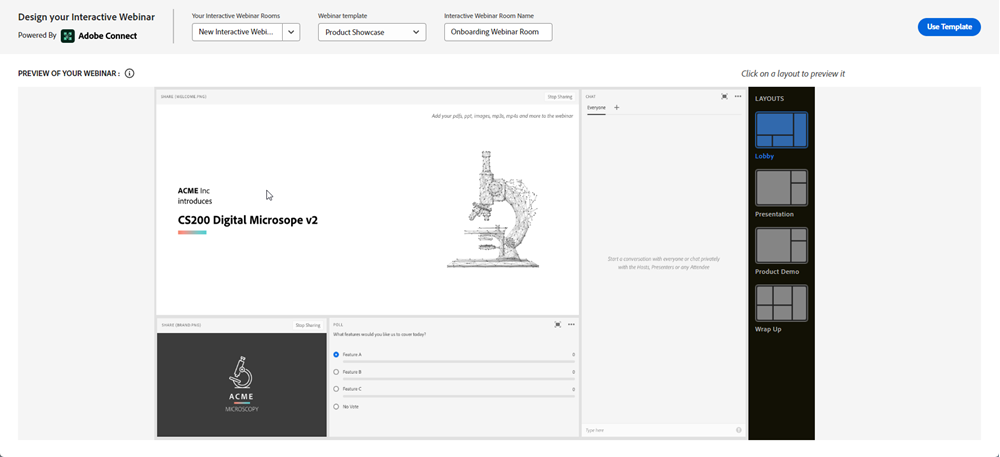
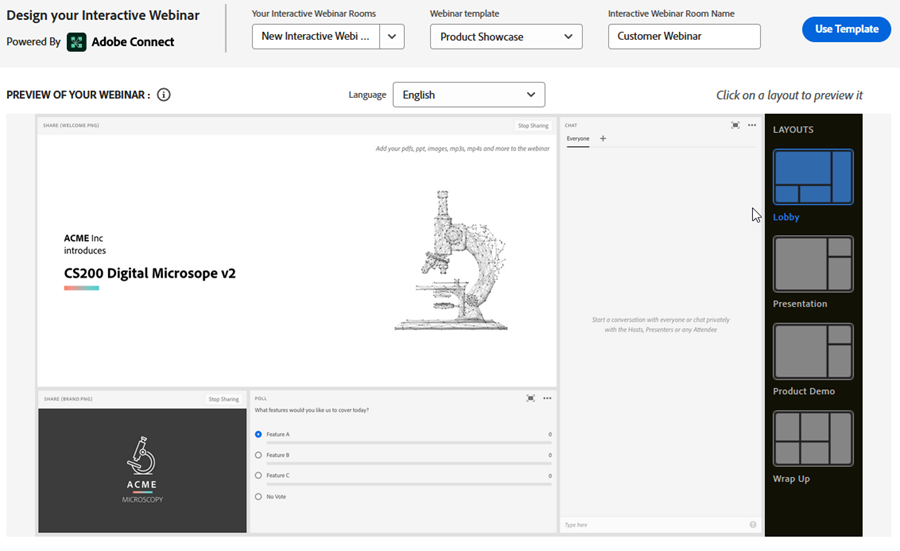
random stuff

diff --git a/help/marketo/product-docs/demand-generation/events/interactive-webinars/user-and-license-management.md b/help/marketo/product-docs/demand-generation/events/interactive-webinars/user-and-license-management.md
@@ -101,3 +101,15 @@ Interactive Webinars offers specific licenses to create events powered by Adobe 
 * Every time an event is created, it will count as "consumed" from its respective license (unless it's a Shared Room License). Preference will be given to "Shared Event License" if there are both "Shared Event License" and "Shared Room License" of the same capacity. If the event has not been delivered and if the Event Program is deleted before the scheduled time, the event count is replenished by subtracting an event from Events Consumed.
 
 * Once a license has been exhausted, its tile remains on the Interactive Webinars screen in the Admin section with "Total Events" and "Events Consumed" having the same value. Only when the license expires will it be removed from the screen.
+
+## User Access {#user-access}
+
+Interactive Webinars has the functionality to regulate usage by giving permissions to Marketo Engage users to create and deliver Interactive Webinars. However, an Interactive Webinar user (or non-user) could still have read/edit access to Interactive Webinars event programs created by other users.
+
+Marketo users who have been given Interactive Webinars permissions and are owners of a particular Interactive Webinars Event Program would be able to perform all the Interactive Webinar functions related to that program. This includes: creating, accessing, modifying, cloning, moving, and deleting that program. However, once that user is no longer an Interactive webinar user, the owner of the program would be able to access and move the program, but not perform any other functions.
+
+Marketo users who have been given Interactive Webinars permissions and are _not_ owners of a particular Interactive Webinars Event Program would be able to perform limited functions on those programs. Marketo non-Admin users will be able to access and clone the program, but won't be able to perform any other functions if they have permissions for Interactive Webinars. However, Marketo Admin users _will_ be able to perform all functions, such as accessing, modifying, cloning, moving, and deleting that program (as long as they have permissions for Interactive Webinars). Once this permission is revoked for Marketo Admin and non-Admin users, they would be able to only access the Interactive Webinar Event Program, and would not be able to perform any other functions.
+
+The restriction of actionable functions would be indicated by a grayed out action button and a hover message. Some examples of the grayed out action buttons are "Design Your Webinar" or "Enter Your Webinar." For non-actionable functions, a message would be provided highlighting the restrictions. See example below:
+
+![](assets/user-and-license-management-12.png)

diff --git a/help/marketo/product-docs/demand-generation/events/interactive-webinars/interactive-webinars-overview.md b/help/marketo/product-docs/demand-generation/events/interactive-webinars/interactive-webinars-overview.md
@@ -26,6 +26,10 @@ After the webinar, access [event performance analytics](/help/marketo/product-do
 
 No. Only an active Marketo Engage subscription is required to use Interactive Webinars.
 
+**What languages are available for Interactive Webinars?**
+
+Interactive Webinars is available in all six Marketo-supported languages: English, French, German, Japanese, Portuguese and Spanish. The same languages are supported by Adobe Connect as well during the webinar delivery through Interactive Webinars.
+
 **I have exhausted my included number of Interactive Webinars. How do I get more sessions, or more capacity?**
 
 You would need to contact the Adobe Account Team (your Account Manager) for assistance.

diff --git a/help/marketo/product-docs/demand-generation/events/interactive-webinars/designing-interactive-webinars.md b/help/marketo/product-docs/demand-generation/events/interactive-webinars/designing-interactive-webinars.md
@@ -28,6 +28,10 @@ Learn how to design your webinar to suit your needs.
 
    ![](assets/designing-interactive-webinars-4.png)
 
+   >[!TIP]
+   >
+   >Your webinar will be set to the default language in your Marketo Engage instance, but you have the option to change languages on a per-webinar basis by using the drop-down above the preview.
+
 1. You can select different layouts to preview. To proceed, click **Use Template**.
 
    ![](assets/designing-interactive-webinars-5.png)

diff --git a/help/marketo/product-docs/demand-generation/dynamic-chat/conversational-flows/conversational-flow-settings.md b/help/marketo/product-docs/demand-generation/dynamic-chat/conversational-flows/conversational-flow-settings.md
@@ -9,6 +9,8 @@ feature: Dynamic Chat
 
 Make Marketo Engage Forms conversational by integrating them with Dynamic Chat Conversational Flows. Instantly qualify leads using form data or Smart List membership for meeting bookings, white paper links, or custom goals.
 
+PREREQ HERE
+
 1. Find and select your form.
 
 PICC
